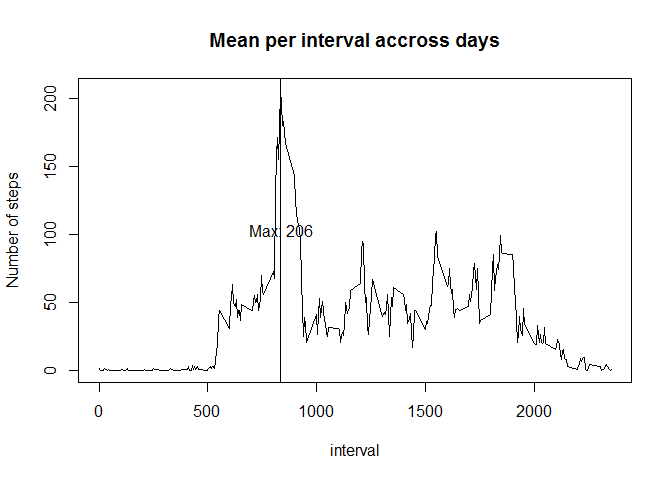
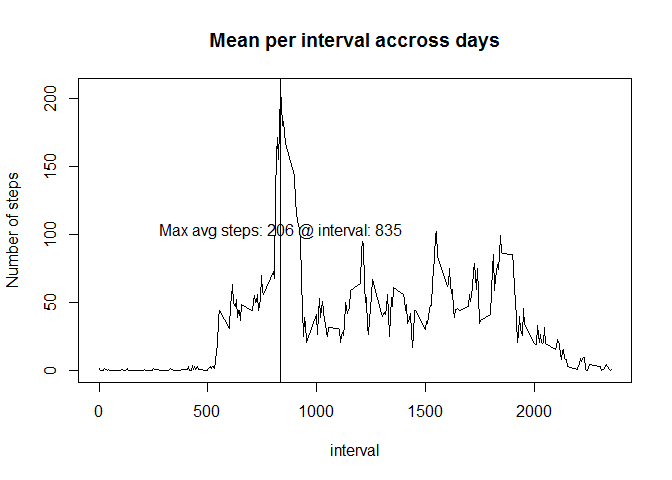
updated label in the plot

Changed region(s): [[0.2188, 0.4688, 0.5938, 0.5]]

diff --git a/PA1_template.html b/PA1_template.html
@@ -152,9 +152,9 @@ maxavgsteps &lt;- filter(meanaccrossdays,Mean == max(Mean))
 # now draw the vertical line to show the maximum number of steps
 abline(v=maxavgsteps$interval)
 # display the max
-label &lt;- paste(&quot;Max:&quot;, maxavgsteps$Mean)
+label &lt;- paste(&quot;Max avg steps:&quot;, maxavgsteps$Mean, &quot;@ interval:&quot;, maxavgsteps$interval )
 text(maxavgsteps$interval+5,maxavgsteps$Mean/2,label)</code></pre>
[2 lines of base64/hex data omitted]
 </div>
 </div>
 <div id="imputing-missing-values" class="section level2">

diff --git a/PA1_template.md b/PA1_template.md
@@ -56,7 +56,7 @@ maxavgsteps <- filter(meanaccrossdays,Mean == max(Mean))
 # now draw the vertical line to show the maximum number of steps
 abline(v=maxavgsteps$interval)
 # display the max
-label <- paste("Max:", maxavgsteps$Mean)
+label <- paste("Max avg steps:", maxavgsteps$Mean, "@ interval:", maxavgsteps$interval )
 text(maxavgsteps$interval+5,maxavgsteps$Mean/2,label)
 ```
 
